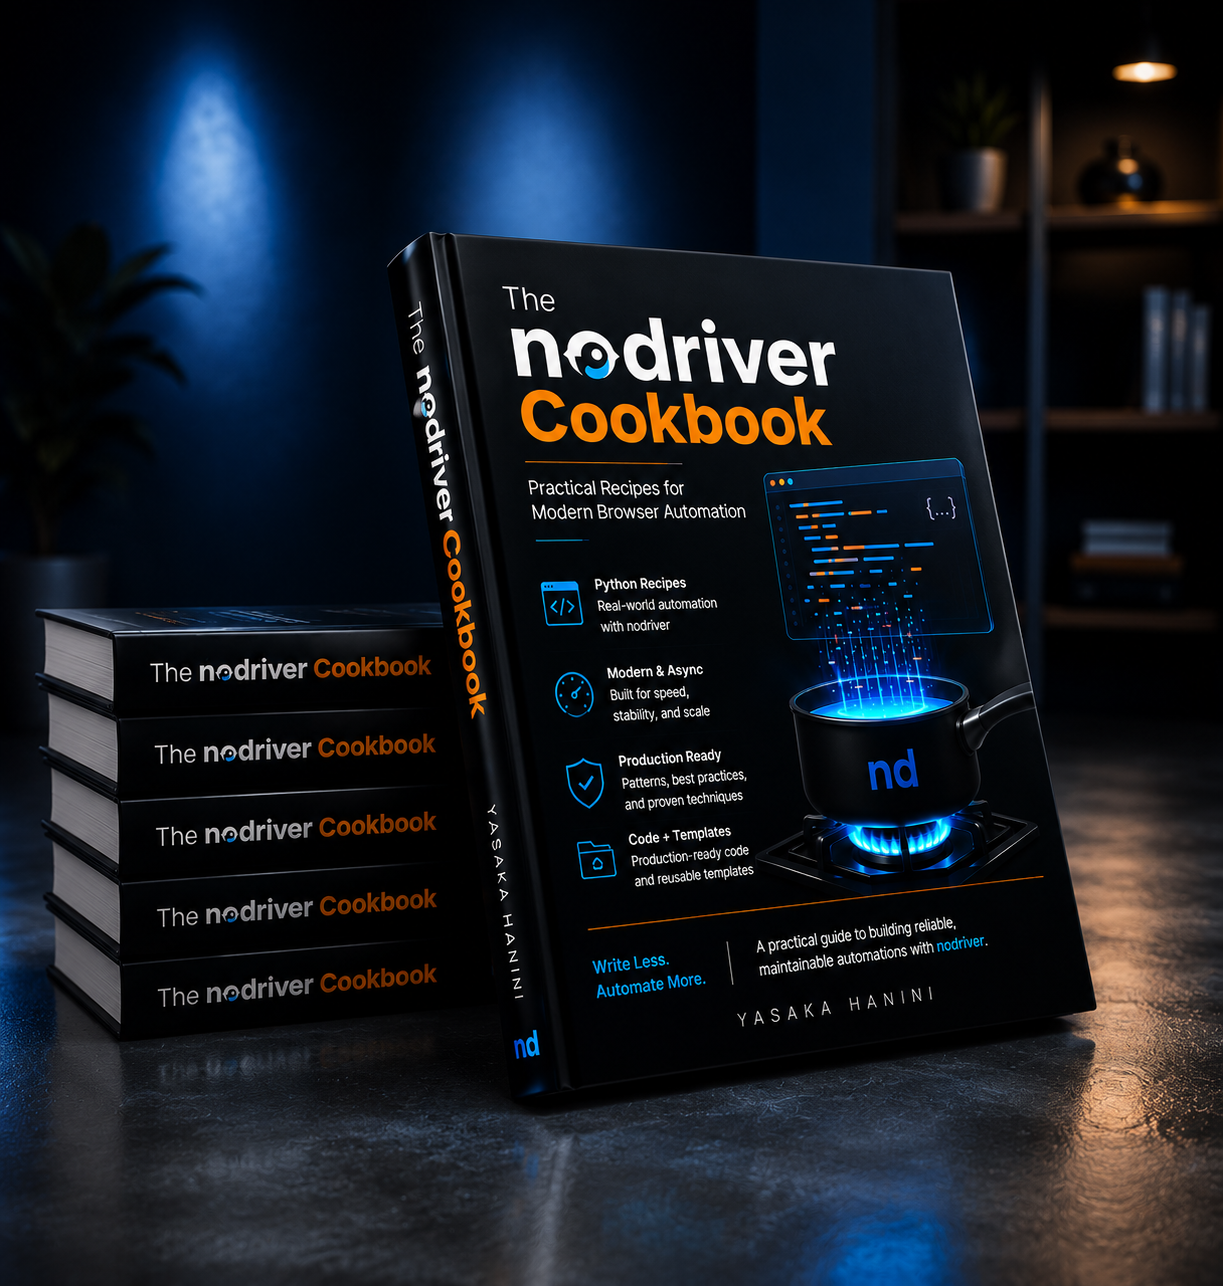
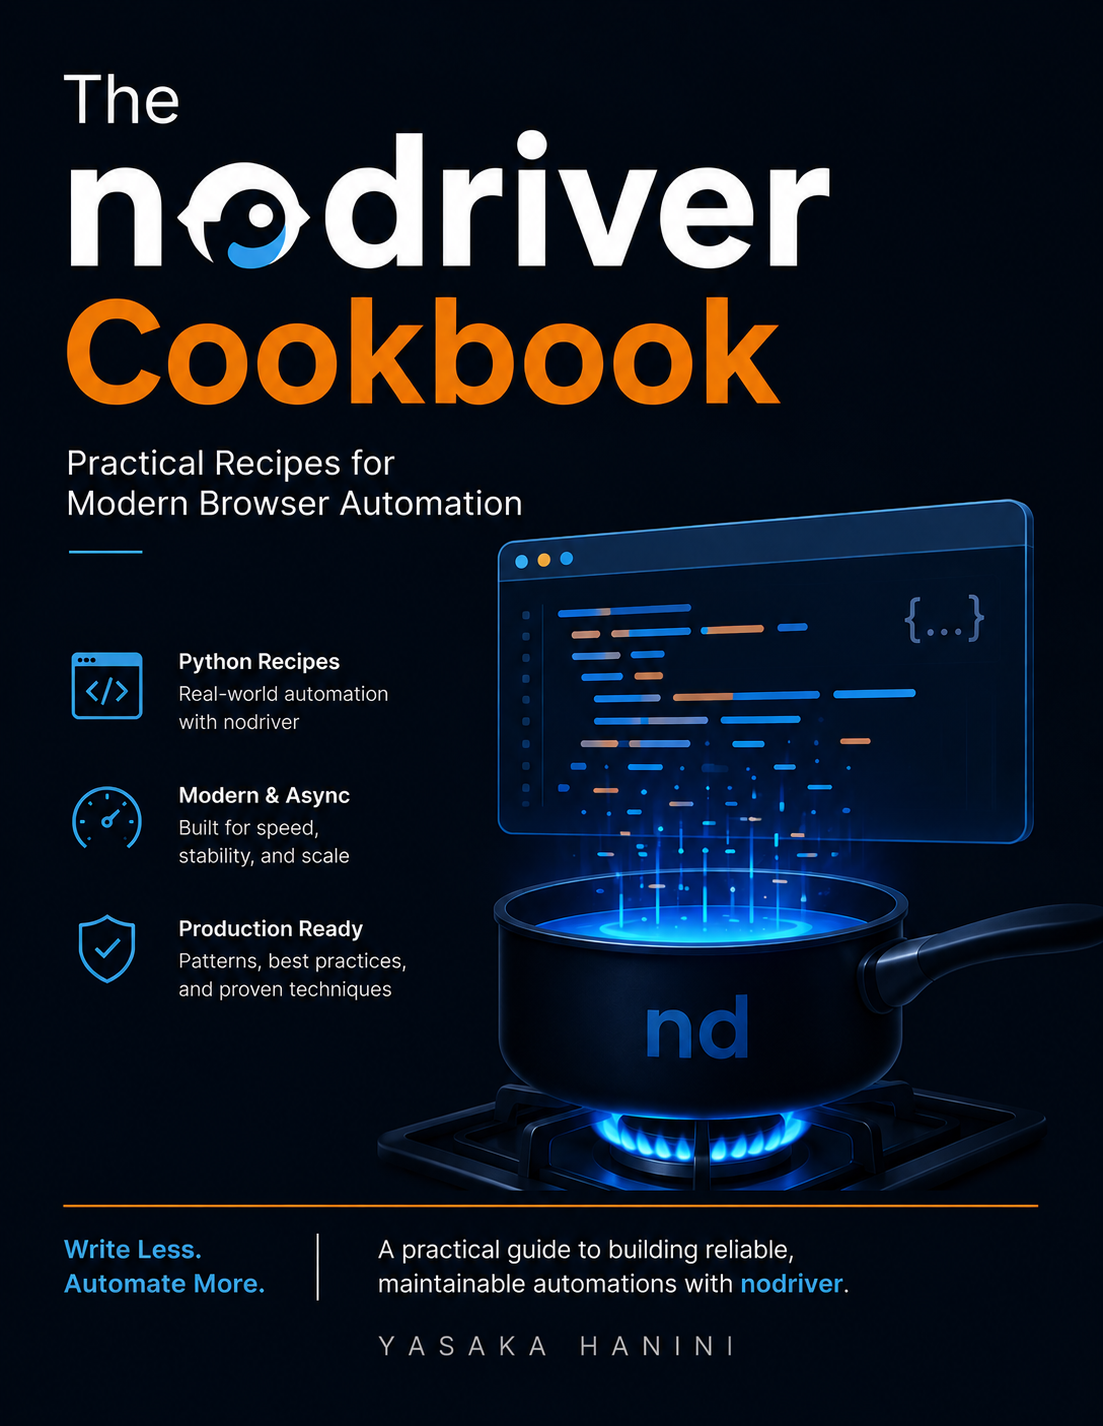
Update website assets with flat covers and 3D thumbnail mockups, and recompile index

diff --git a/website/index.html b/website/index.html
@@ -425,7 +425,7 @@
     
     <div class="book-card">
       <div class="book-card-cover-container">
-        <img class="book-card-cover" src="/assets/covers/browser-automation-playbook-cover.png" alt="Browser Automation Playbook Cover" width="135" height="180">
+        <img class="book-card-cover" src="/assets/covers/browser-automation-playbook-thumbnail.png" alt="Browser Automation Playbook Cover" width="135" height="180">
       </div>
       <h4 class="book-title">Browser Automation Playbook</h4>
       <div class="book-tagline">Production Engineering Edition</div>
@@ -446,7 +446,7 @@
     
     <div class="book-card">
       <div class="book-card-cover-container">
-        <img class="book-card-cover" src="/assets/covers/python-browser-automation-cookbook-cover.png" alt="Python Browser Automation Cookbook Cover" width="135" height="180">
+        <img class="book-card-cover" src="/assets/covers/python-browser-automation-cookbook-thumbnail.png" alt="Python Browser Automation Cookbook Cover" width="135" height="180">
       </div>
       <h4 class="book-title">Python Browser Automation Cookbook</h4>
       <div class="book-tagline">Working Smarter with nodriver</div>

diff --git a/website/templates/index.html b/website/templates/index.html
@@ -208,7 +208,7 @@
     {% for book in books %}
     <div class="book-card">
       <div class="book-card-cover-container">
-        <img class="book-card-cover" src="/assets/covers/{{ book.id }}-cover.png" alt="{{ book.title }} Cover" width="135" height="180">
+        <img class="book-card-cover" src="/assets/covers/{{ book.id }}-thumbnail.png" alt="{{ book.title }} Cover" width="135" height="180">
       </div>
       <h4 class="book-title">{{ book.title }}</h4>
       <div class="book-tagline">{{ book.subtitle }}</div>
